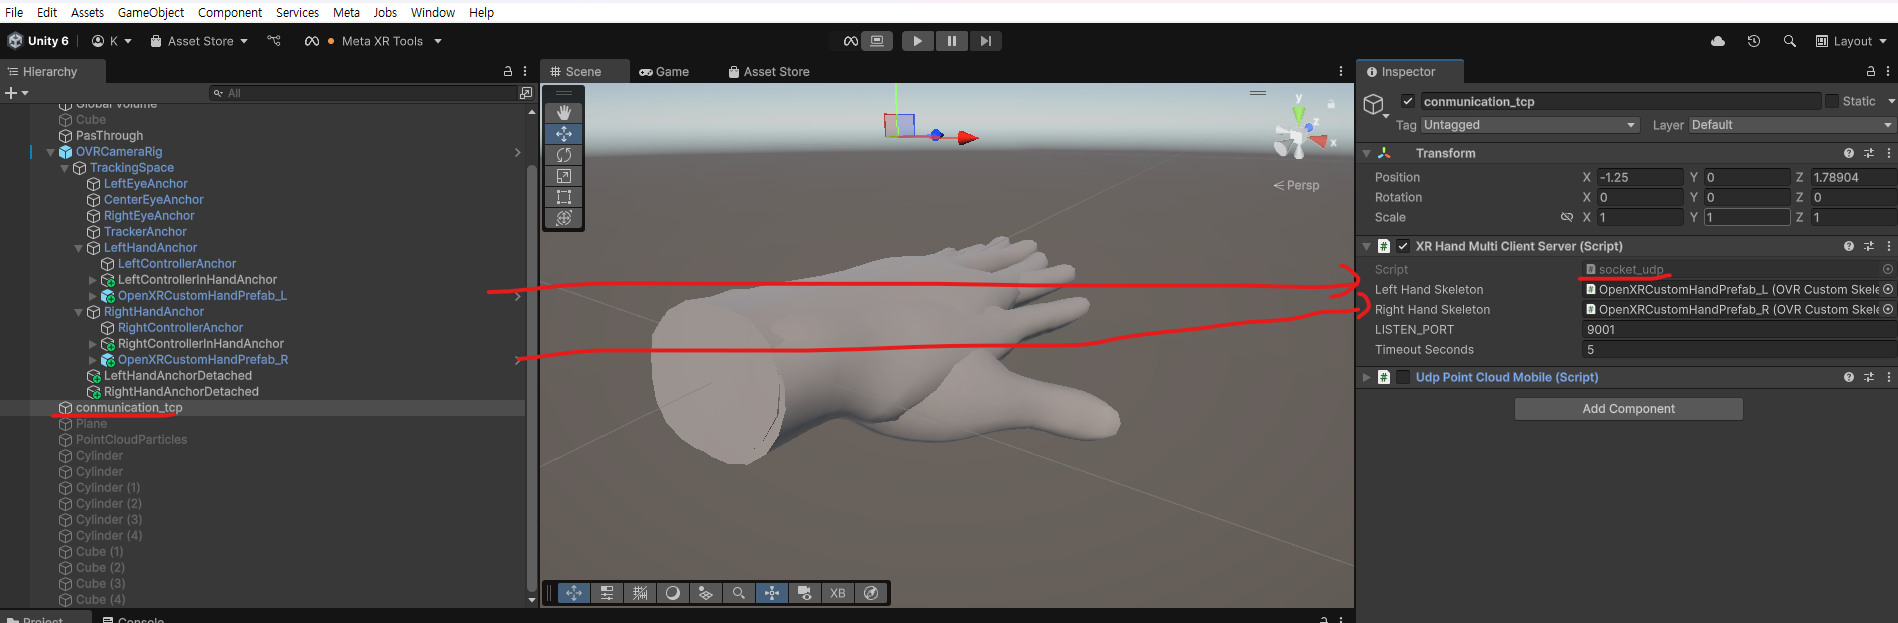
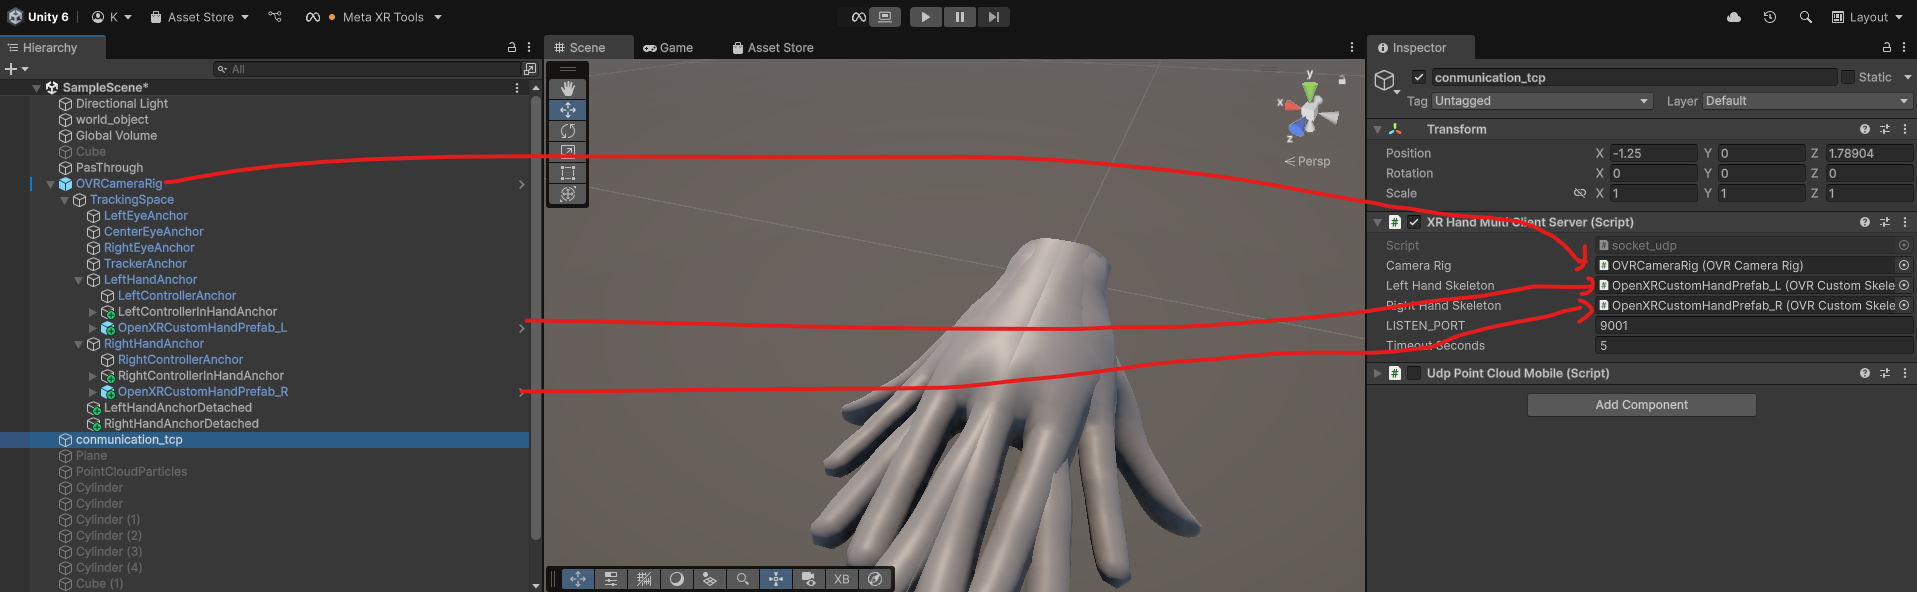
MOD : headset data

diff --git a/Unity3D_Code/socket_udp.cs b/Unity3D_Code/socket_udp.cs
@@ -9,6 +9,7 @@ using System.Text;
 
 public class XRHandMultiClientServer : MonoBehaviour
 {
+    public OVRCameraRig cameraRig;  // 에디터에서 연결
     public OVRCustomSkeleton leftHandSkeleton;
     public OVRCustomSkeleton rightHandSkeleton;
     public int LISTEN_PORT = 9001;
@@ -31,6 +32,27 @@ public class XRHandMultiClientServer : MonoBehaviour
         listenThread.Start();
 
         Debug.Log($"[UDP Server] Listening on port {LISTEN_PORT}");
+    }
+
+    float[] GetHeadsetPoseArray()
+    {
+        float[] arr = new float[7]; // pos(3) + rot(4)
+
+        if (cameraRig == null || cameraRig.centerEyeAnchor == null)
+            return arr;
+    
+        Vector3 pos = cameraRig.centerEyeAnchor.position;
+        Quaternion rot = cameraRig.centerEyeAnchor.rotation;
+
+        arr[0] = pos.x;
+        arr[1] = pos.y;
+        arr[2] = pos.z;
+        arr[3] = rot.x;
+        arr[4] = rot.y;
+        arr[5] = rot.z;
+        arr[6] = rot.w;
+
+        return arr;
     }
 
     void ListenForClients()
@@ -91,6 +113,7 @@ public class XRHandMultiClientServer : MonoBehaviour
         // 각 손 데이터 준비 (없으면 0 채움)
         float[] left = GetHandArray(leftHandSkeleton);
         float[] right = GetHandArray(rightHandSkeleton);
+        float[] head = GetHeadsetPoseArray();
 
         byte[] header = System.Text.Encoding.ASCII.GetBytes("HND0");
         byte[] footer = System.Text.Encoding.ASCII.GetBytes("HND1");
@@ -98,8 +121,8 @@ public class XRHandMultiClientServer : MonoBehaviour
         byte[] ts_bytes = BitConverter.GetBytes(timestamp);
         
         // 총 패킷 크기 계산: header(4) + ts(8) + 2*26*3*4 + footer(4)
-        int floatCount = left.Length + right.Length; // 182 + 182 = 364
-        byte[] payload = new byte[4 + 8 + floatCount * 4 + 4]; // 1472 bytes
+        int floatCount = left.Length + right.Length +head.Length; // 182 + 182 + 7 = 371
+        byte[] payload = new byte[4 + 8 + floatCount * 4 + 4]; // 1500 bytes
 
         int ptr = 0;
         Array.Copy(header, 0, payload, ptr, 4); ptr += 4;
@@ -115,6 +138,13 @@ public class XRHandMultiClientServer : MonoBehaviour
         for (int i = 0; i < right.Length; i++)
         {
             Array.Copy(BitConverter.GetBytes(right[i]), 0, payload, ptr, 4);
+            ptr += 4;
+        }
+
+        // 헤드셋 pose (pos + rot)
+        for (int i = 0; i < head.Length; i++)
+        {
+            Array.Copy(BitConverter.GetBytes(head[i]), 0, payload, ptr, 4);
             ptr += 4;
         }
 

diff --git a/hand_tracking_udp_receiver.py b/hand_tracking_udp_receiver.py
@@ -18,7 +18,7 @@ from scipy.spatial.transform import Rotation as R
 # === 네트워크 설정 ===(메타퀘스트 IP 및 포트 번호)
 SERVER_IP = "192.168.0.133"
 SERVER_PORT = 9001
-BYTES_TOTAL = 1472
+BYTES_TOTAL = 1500
 
 sock = socket.socket(socket.AF_INET, socket.SOCK_DGRAM)
 sock.setsockopt(socket.SOL_SOCKET, socket.SO_RCVBUF, 1024 * 1024)  # 1MB
@@ -185,7 +185,8 @@ def update():
     arr = np.frombuffer(data[12:-4], dtype=np.float32)
 
     arr_l = arr[:182]
-    arr_r = arr[182:]
+    arr_r = arr[182:-7]
+    arr_h = arr[-7:]
 
     update_hand(arr_l, scatter_l, lines_l, axes_l,root_axes_l)
     update_hand(arr_r, scatter_r, lines_r, axes_r,root_axes_r)
